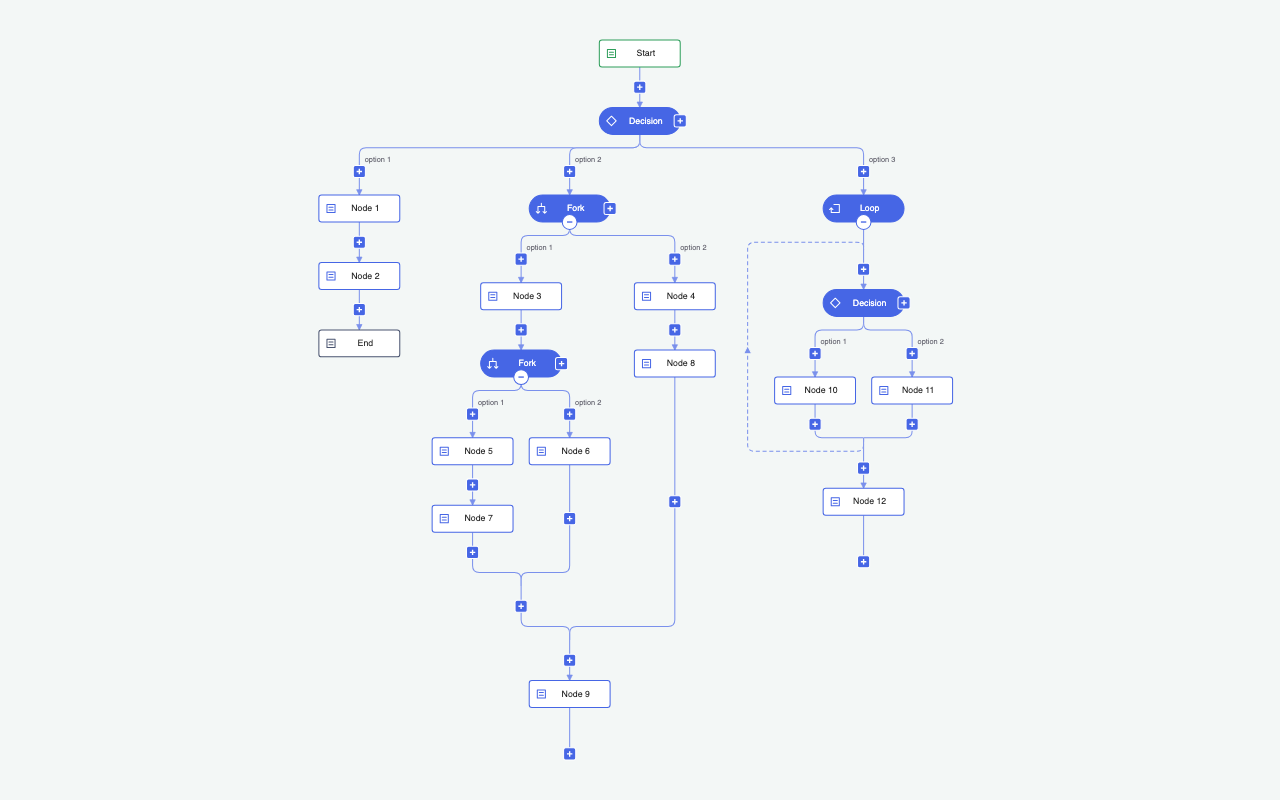
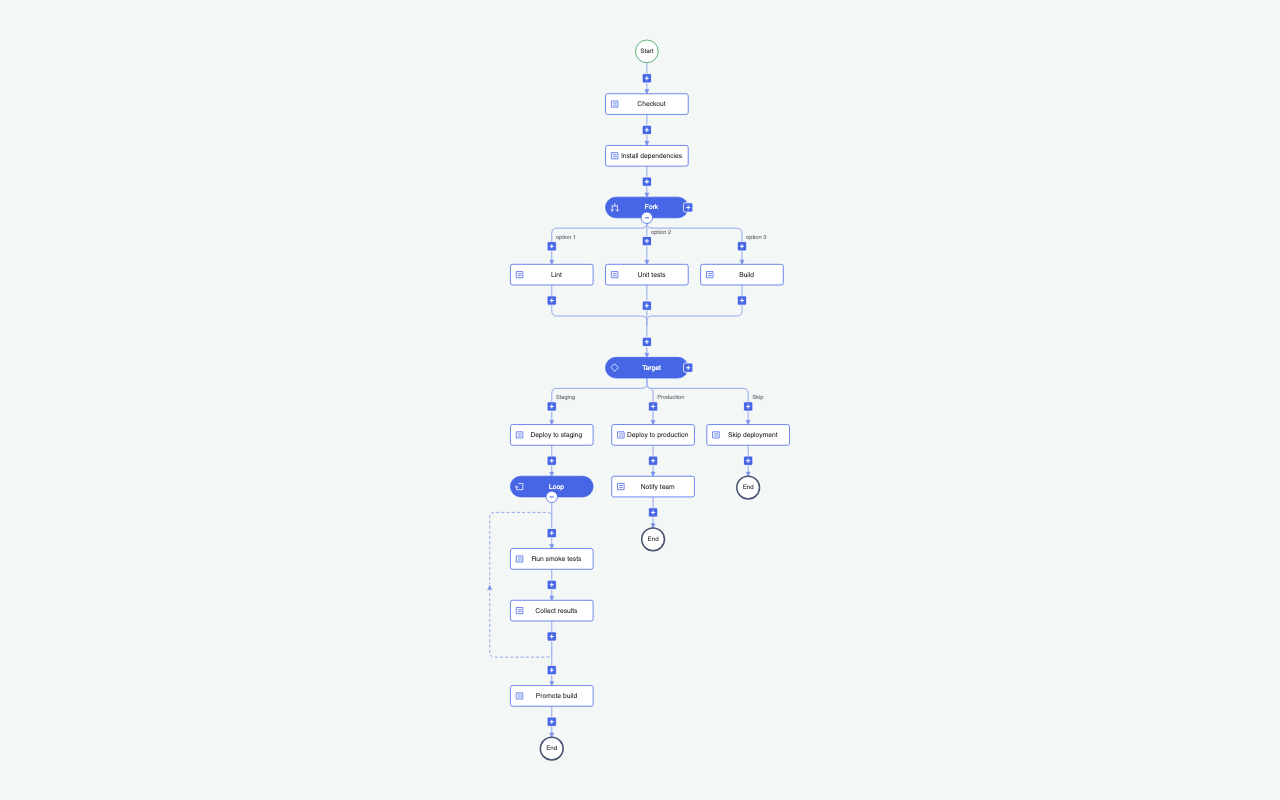
feat(tree-branch-groups): seed the demo with a CI/CD pipeline
Labelled steps instead of numbered nodes: checkout, install, a fork of
lint, tests and build, a decision on the target with named options, a loop
polling the smoke tests, and terminal ends. The add and insert actions
take a label, a decision takes its own, and an option can be named on the
link into it. Start and End are circles now, nodes a little wider for the
labels.

diff --git a/tree-branch-groups/ts/src/app.ts b/tree-branch-groups/ts/src/app.ts
@@ -1,9 +1,10 @@
 import { dia, ui } from '@joint/plus';
 
-import { addBelow, addChild, deleteElement, ensureAddButtons, insertGroup, insertOnLink } from './actions';
+import { addBelow, addChild, deleteElement, ensureAddButtons, insertGroup, insertOnLink, nameOption } from './actions';
 import { gateAnchor } from './gate-anchor';
 import { isCellVisible, runLayout } from './layout';
 import { COLORS, Node, cellNamespace } from './shapes';
+import type { Link } from './shapes';
 import { addHoverTools, addTooltips, placeLinkTools } from './tools';
 import type { ToolActions } from './tools';
 
@@ -29,7 +30,7 @@ export function init(): void {
         // from the models: a group has no view.
         defaultAnchor: gateAnchor,
         defaultConnectionPoint: { name: 'bbox', args: { useModelGeometry: true }},
-        defaultConnector: { name: 'straight', args: { cornerType: 'cubic' }},
+        defaultConnector: { name: 'straight', args: { cornerType: 'cubic', cornerRadius: 6 }},
         sorting: dia.Paper.sorting.APPROX,
         viewManagement: {
             lazyInitialize: true,
@@ -121,31 +122,36 @@ export function init(): void {
 }
 
 /**
- * A root with a decision below it, and three children of the decision: a
- * node ending in an end of the diagram, a fork group with a fork group nested in its first branch, and a loop
- * group whose tree starts with a decision that splits into two. Groups are
- * created empty, so the seed fills them the way a user would. Every leaf gets
- * a child of its own, so that the join below the branches is visible.
+ * A CI/CD pipeline. After the checkout and the install, a fork runs the lint,
+ * the tests and the build side by side; a decision picks the target: staging,
+ * where a loop polls the smoke tests before the build is promoted, production,
+ * or no deployment at all. Groups are created empty, so the seed fills them
+ * the way a user would.
  */
 function createInitialDiagram(graph: dia.Graph, root: dia.Element): void {
-    const decision = addBelow(graph, root, 'decision');
+    const checkout = addChild(graph, root, 'Checkout');
+    const install = addChild(graph, checkout, 'Install dependencies');
 
-    const left = addChild(graph, decision);
-    addBelow(graph, addChild(graph, left), 'end');
+    const jobs = insertGroup(graph, install, 'fork');
+    addChild(graph, jobs.getStart(), 'Lint');
+    addChild(graph, jobs.getStart(), 'Unit tests');
+    addChild(graph, jobs.getStart(), 'Build');
 
-    const fork = insertGroup(graph, decision, 'fork');
-    const branchA = addChild(graph, fork.getStart());
-    const branchB = addChild(graph, fork.getStart());
-    const nested = insertGroup(graph, branchA, 'fork');
-    const nestedA = addChild(graph, nested.getStart());
-    addChild(graph, nested.getStart());
-    addChild(graph, nestedA);
-    addChild(graph, branchB);
-    addChild(graph, fork);
+    const target = addBelow(graph, jobs, 'decision', 'Target');
 
-    const loop = insertGroup(graph, decision, 'loop');
-    const split = addBelow(graph, loop.getStart(), 'decision');
-    addChild(graph, split);
-    addChild(graph, split);
-    addChild(graph, loop);
+    const staging = addChild(graph, target, 'Deploy to staging');
+    nameOption(staging, 'Staging');
+    const poll = insertGroup(graph, staging, 'loop');
+    const [firstLink] = graph.getConnectedLinks(poll.getStart(), { outbound: true }) as Link[];
+    const smokeTests = insertOnLink(graph, firstLink, 'node', 'Run smoke tests');
+    addChild(graph, smokeTests, 'Collect results');
+    addBelow(graph, addChild(graph, poll, 'Promote build'), 'end');
+
+    const production = addChild(graph, target, 'Deploy to production');
+    nameOption(production, 'Production');
+    addBelow(graph, addChild(graph, production, 'Notify team'), 'end');
+
+    const skip = addChild(graph, target, 'Skip deployment');
+    nameOption(skip, 'Skip');
+    addBelow(graph, skip, 'end');
 }

diff --git a/tree-branch-groups/ts/src/actions.ts b/tree-branch-groups/ts/src/actions.ts
@@ -192,16 +192,20 @@ export function canSplit(link: dia.Link): boolean {
     return !Link.isReturnLink(source, target) && !AddButton.isAddButton(target);
 }
 
-/** Adds a new element of the chosen kind to the graph: a node, a decision, an end of the diagram, or an empty group. */
-function createElement(graph: dia.Graph, choice: AddChoice): dia.Element {
+/**
+ * Adds a new element of the chosen kind to the graph: a node, a decision, an
+ * end of the diagram, or an empty group. A node or a decision takes a label;
+ * a node without one is numbered.
+ */
+function createElement(graph: dia.Graph, choice: AddChoice, label?: string): dia.Element {
     switch (choice) {
         case 'node': {
-            const node = Node.create(nextLabel());
+            const node = Node.create(label ?? nextLabel());
             graph.addCell(node);
             return node;
         }
         case 'decision': {
-            const node = Node.createDecision();
+            const node = Node.createDecision(label);
             graph.addCell(node);
             return node;
         }
@@ -220,9 +224,9 @@ function createElement(graph: dia.Graph, choice: AddChoice): dia.Element {
  * The element joins the group the link is in and takes the place of the
  * former target among its siblings.
  */
-export function insertOnLink(graph: dia.Graph, link: Link, choice: AddChoice): dia.Element {
+export function insertOnLink(graph: dia.Graph, link: Link, choice: AddChoice, label?: string): dia.Element {
     const target = link.getTargetElement()!;
-    const element = createElement(graph, choice);
+    const element = createElement(graph, choice, label);
     link.getParentCell()?.embed(element);
     element.set({ siblingRank: target.get('siblingRank') as number | undefined });
     // Seed the position at the middle of the link so that the first render does not flash at the origin.
@@ -278,19 +282,28 @@ function attachChild(graph: dia.Graph, parent: dia.Element, child: dia.Element):
     link.reparent();
 }
 
-/** Adds a plain node as the last child of `parent`. */
-export function addChild(graph: dia.Graph, parent: dia.Element): Node {
-    const node = Node.create(nextLabel());
+/** Adds a plain node as the last child of `parent`, labelled as given or numbered. */
+export function addChild(graph: dia.Graph, parent: dia.Element, label?: string): Node {
+    const node = Node.create(label ?? nextLabel());
     graph.addCell(node);
     attachChild(graph, parent, node);
     return node;
 }
 
-/** Adds a new element of the chosen kind as the last child of `parent`. */
-export function addBelow(graph: dia.Graph, parent: dia.Element, choice: AddChoice): dia.Element {
-    const element = createElement(graph, choice);
+/** Adds a new element of the chosen kind as the last child of `parent`, with a label where it takes one. */
+export function addBelow(graph: dia.Graph, parent: dia.Element, choice: AddChoice, label?: string): dia.Element {
+    const element = createElement(graph, choice, label);
     attachChild(graph, parent, element);
     return element;
+}
+
+/**
+ * Names the option `element` is of its parent - a decision or a fork - on
+ * the link into it, instead of the `option 1`, `option 2`, ... the layout
+ * numbers the options with (see `nameOptions()` in `layout.ts`).
+ */
+export function nameOption(element: dia.Element, name: string): void {
+    element.set({ optionName: name });
 }
 
 /** Adds an empty group of the given kind to the graph. */

diff --git a/tree-branch-groups/ts/src/shapes.ts b/tree-branch-groups/ts/src/shapes.ts
@@ -1,9 +1,11 @@
 import { dia, util } from '@joint/plus';
 
 // Layout metrics shared by the shapes and the layout.
-export const NODE_SIZE = { width: 120, height: 40 };
+export const NODE_SIZE = { width: 160, height: 40 };
 /** The `end` of a group has no size: it is the point the paths of the group converge into. */
 export const END_SIZE = { width: 0, height: 0 };
+/** The start and the ends of the diagram are circles. */
+export const TERMINAL_SIZE = { width: 44, height: 44 };
 /** The add button below a leaf of the tree, the same square as the insert button of a link. */
 export const ADD_BUTTON_SIZE = { width: 18, height: 18 };
 /**
@@ -235,27 +237,37 @@ export class Node extends dia.Element {
         return node;
     }
 
-    /** The root of the diagram: a plain node labelled `Start`, outlined in green. */
+    /** Turns a node into a circle with its label inside and no icon: the start and the ends of the diagram. */
+    private makeCircle(stroke: string, strokeWidth: number): void {
+        this.resize(TERMINAL_SIZE.width, TERMINAL_SIZE.height);
+        this.attr({
+            body: { rx: 'calc(h / 2)', ry: 'calc(h / 2)', stroke, strokeWidth },
+            kindIcon: { display: 'none' },
+            label: { x: 'calc(w / 2)', fontSize: 12 }
+        });
+    }
+
+    /** The root of the diagram: a circle labelled `Start`, outlined in green. */
     static createRoot(): Node {
         const node = Node.create('Start');
-        node.attr({ body: { stroke: COLORS.root }, kindIcon: { stroke: COLORS.root }});
+        node.makeCircle(COLORS.root, 1.5);
         return node;
     }
 
-    /** An end of the diagram: a node labelled `End`, outlined in red, that nothing can follow. */
+    /** An end of the diagram: a circle labelled `End` with the thick ring of a terminal, that nothing can follow. */
     static createTerminal(): Node {
         const node = Node.create('End', 'terminal');
-        node.attr({ body: { stroke: COLORS.terminal }, kindIcon: { stroke: COLORS.terminal }});
+        node.makeCircle(COLORS.terminal, 3);
         return node;
     }
 
     /**
-     * A decision: a pill labelled `Decision`, with a diamond next to the label
+     * A decision: a pill labelled `Decision` (or as given), with a diamond next to the label
      * and, at its right end, the button that adds a sibling option (shown
      * once it has a child, see `setAddButtonVisible()`).
      */
-    static createDecision(): Node {
-        const node = Node.create(DECISION_LABEL, 'decision');
+    static createDecision(label: string = DECISION_LABEL): Node {
+        const node = Node.create(label, 'decision');
         node.attr({
             kindIcon: { display: null, d: DECISION_ICON },
             label: { x: `calc(w / 2 + ${KIND_LABEL_OFFSET})` },

diff --git a/tree-branch-groups/ts/src/layout.ts b/tree-branch-groups/ts/src/layout.ts
@@ -105,8 +105,9 @@ function makeRoomForOptions(graph: dia.Graph): void {
 
 /**
  * Names the links from every decision and every fork to their options
- * `option 1`, `option 2`, ... from left to right, and takes the name off
- * every other link. After the layout, which decides the order.
+ * `option 1`, `option 2`, ... from left to right - or as the option was
+ * named (`nameOption()`) - and takes the name off every other link. After
+ * the layout, which decides the order.
  */
 function nameOptions(graph: dia.Graph): void {
     for (const link of graph.getLinks()) {
@@ -115,8 +116,11 @@ function nameOptions(graph: dia.Graph): void {
     for (const parent of graph.getElements().filter(hasOptions)) {
         const options = getOptions(graph, parent).sort((a, b) => a.getBBox().center().x - b.getBBox().center().x);
         for (const link of graph.getConnectedLinks(parent, { outbound: true })) {
-            const index = options.indexOf(link.getTargetElement()!);
-            if (index >= 0 && link instanceof Link) link.setBranchName(`${OPTION_NAME} ${index + 1}`);
+            const option = link.getTargetElement()!;
+            const index = options.indexOf(option);
+            if (index < 0 || !(link instanceof Link)) continue;
+            const name = option.get('optionName') as string | undefined;
+            link.setBranchName(name ?? `${OPTION_NAME} ${index + 1}`);
         }
     }
 }

diff --git a/tree-branch-groups/ts/README.md b/tree-branch-groups/ts/README.md
@@ -2,7 +2,7 @@
 
 A tree laid out by `layout.TreeLayout` in which a node can be a *group*: a container with a start node, some content and an end node. A *fork group* holds two branches that converge into the end node — a fork/join. A *loop group* holds a tree that grows down on the right and a return link that climbs back up on the left, from the end node to the start node — a loop. The tree connects to a group as a single node, so subgraphs that a tree layout cannot handle on its own fit into the tree. Groups nest and collapse.
 
-![The initial tree: a decision with a node, a fork group with a nested fork group, and a loop group, all expanded](../screenshot.png)
+![The initial diagram: a CI/CD pipeline with a fork of parallel jobs, a decision on the target and a loop polling the smoke tests](../screenshot.png)
 
 ## Features
 
@@ -11,9 +11,9 @@ A tree laid out by `layout.TreeLayout` in which a node can be a *group*: a conta
 - **Fork groups: converging branches** -- the tree layout only knows trees, so the end node is excluded from the layout of a group with the `filter` option. It is then placed below the branches and joined to them by a horizontal bar that mirrors the vertices the tree layout draws below a parent.
 - **Loop groups: a tree and a way back** -- the tree grows down from the start node and its leaves converge into the end node; the end node links straight back to the start node, up the left side of the group. Nothing can be added to that return link: a node there would run once per iteration exactly like a node of the tree, so the link is the one link without an insert button. It is dashed, as it runs against the flow of the tree.
 - **Nested, collapsible groups** -- a node of a branch, or of the tree of a loop, can be a group itself, of either kind. The start node of a group carries the group's collapse button on its bottom edge, a part of its markup, always shown, in inverted colors; the start of a fork also carries, at its right end, the `+` that adds a branch -- a fork may have any number of them. A collapsed group shrinks to the size of a node and hides its content (the `cellVisibility` option of the paper); its start node (labelled `Fork` or `Loop`, the kind of the group) stays in its place and stands in for it -- the tree is laid out again around it, and what is added below that node continues the tree below the group.
-- **Start and end** -- the root of the diagram is a plain node labelled `Start`, outlined in green. An `End` node, outlined in dark slate (red is kept for the deletion preview), is an end of the diagram: a leaf nothing can follow, with no add button below it. It can be added below any leaf and as an option of a decision, outside of a group only -- inside a fork or a loop every leaf has to reach the end of the group.
+- **Start and end** -- the root of the diagram is a circle labelled `Start`, outlined in green. An `End` circle with the thick dark ring of a flowchart terminal (red is kept for the deletion preview) is an end of the diagram: a leaf nothing can follow, with no add button below it. It can be added below any leaf and as an option of a decision, outside of a group only -- inside a fork or a loop every leaf has to reach the end of the group.
 - **Decisions** -- a node that branches out without a merge: a pill labelled `Decision` with a diamond and, once it has a child, a square `+` at its right end -- apart from the `+` of the links, which add below -- that adds a sibling option (the same menu). With no child a decision is a leaf like any other, with the add button below it. A decision may have any number of children; a plain node continues in one child only, so a decision is where a tree splits for good, where a fork splits and joins again. Deleting a decision deletes everything below it, down to the end of its group. A plain node with several children can only be deleted below a decision or a gate, which can take them all.
-- **Named options** -- the links from a decision or from the start of a fork to their children carry a label, `option 1`, `option 2`, ..., above the insert button, from left to right (`nameOptions()` in `layout.ts`, after every layout). The link to an add button is never an option. Those children get the `offset` attribute of the tree layout, which places them further from their parent than the parent gap alone, so that the vertical part of the link has room for the name (the children of a collapsed group get the same room, those of a loop's start node a little more and those of a loop half of it, which keeps the insert button of their link clear of the collapse button above, or of the return link leaving and joining the link); the bar between them lies a third of the gap below the parent, whatever the offset.
+- **Named options** -- the links from a decision or from the start of a fork to their children carry a label, `option 1`, `option 2`, ... (or the name given with `nameOption()`), above the insert button, from left to right (`nameOptions()` in `layout.ts`, after every layout). The link to an add button is never an option. Those children get the `offset` attribute of the tree layout, which places them further from their parent than the parent gap alone, so that the vertical part of the link has room for the name (the children of a collapsed group get the same room, those of a loop's start node a little more and those of a loop half of it, which keeps the insert button of their link clear of the collapse button above, or of the return link leaving and joining the link); the bar between them lies a third of the gap below the parent, whatever the offset.
 - **Pan and zoom** -- the paper sits in a `ui.PaperScroller` that grows with the content. Drag the blank area to pan (`blank:pointerdown` → `startPanning()`), pan with two fingers on a trackpad (`paper:pan`), pinch or `Ctrl` + wheel to zoom (`paper:pinch` → `zoom()` around the pointer). The first layout fits the content into view (`zoomToFit()`); the layouts after an edit keep the zoom and the scroll position.
 - **Deletion preview** -- hovering a delete tool turns everything it would remove red: the cells `getDeletedCells()` gathers (the element, a decision's subtree, a group's content, the links between them, the add button of a leaf) get a class through `highlighters.addClass`, and the stylesheet colors the class, with a short transition; the buttons keep their color.
 - **Tooltips** -- every button names itself on hover (after half a second) through one `ui.Tooltip` delegated from the paper, reading the `data-tooltip` attribute of the button: `Collapse` / `Expand`, `Add an option`, `Add a branch`, `Add below`, `Insert here`, `Delete the node`.
@@ -42,7 +42,7 @@ A tree laid out by `layout.TreeLayout` in which a node can be a *group*: a conta
 | File | Description |
 |------|-------------|
 | `src/main.ts` | App entry point -- the stylesheet and the application start |
-| `src/app.ts` | The graph, the paper in its scroller (pan, pinch, wheel), the initial diagram and the wiring of the tools |
+| `src/app.ts` | The graph, the paper in its scroller (pan, pinch, wheel), the initial diagram -- a CI/CD pipeline -- and the wiring of the tools |
 | `src/shapes.ts` | The `Node`, `Group`, `AddButton` and `Link` cell types and the layout metrics. A node may have a `role`: the `start` and `end` of a group, a `decision` with its add button, or a `terminal`, an end of the diagram. A group has a `kind` (`fork` or `loop`) and knows its start and end nodes; it is never rendered; its start node is labelled with the kind and carries the collapse button (a part of the markup, triggering a custom paper event), its end node has no size. A link carries the name of an option as a label, is dashed as the return link of a loop (with an arrow label instead of an arrowhead), and has no arrowhead into an end node or an add button |
 | `src/fork-group.ts` | Everything specific to a fork group: its content (a start node linked to an end node; the branches come later) and its layout -- one `TreeLayout` pass from the start, the end node joined below the branches |
 | `src/loop-group.ts` | Everything specific to a loop group: its content (a start node linked to an end node, and the link back to the start; the tree comes later) and its layout -- one `TreeLayout` pass down from the start, the leaves into the end from the right, the return link up the left side |
